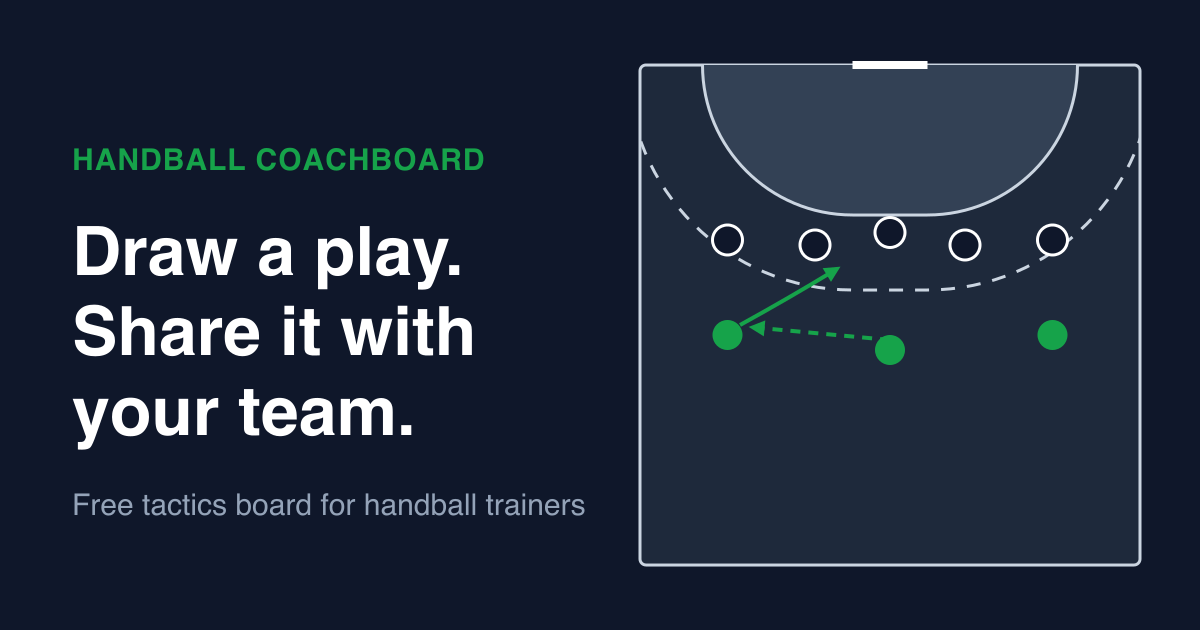
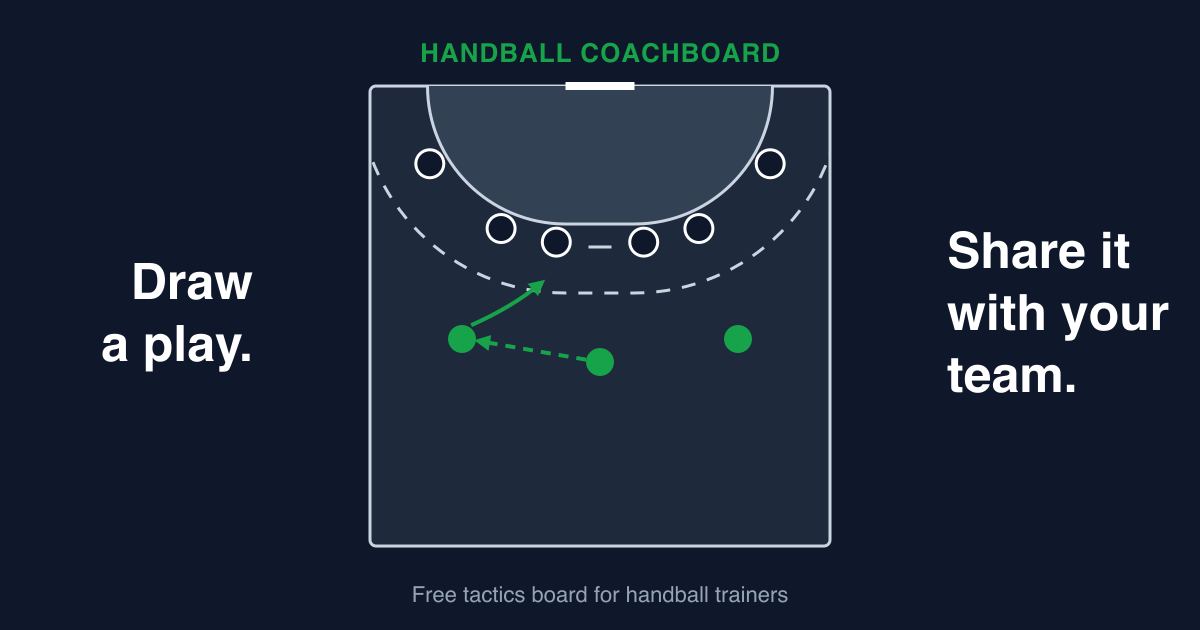
Re-render the English share image in the new layout
public/og-default.png now has the layout of the Dutch one: six
defenders in a 6-0, the headline in the side bands and a middle
630x630 square that stands on its own. The text stays the same.

Changed region(s): [[0.0617, 0.0603, 0.9867, 0.9048], [0.3392, 0.9349, 0.6783, 0.9651], [0.4317, 0.4524, 0.4933, 0.4825]]

diff --git a/docs/metingen.md b/docs/metingen.md
@@ -1521,6 +1521,10 @@ Stap 5, in PR #24 (branch `fase-10-afronding`, na de merge van #23). Het Engels 
 
   - `/nl/` en `/nl/tactics/` zijn kleiner doordat de CSS van de "Soon"-kaart uit `CategoryCards` weg is; hun tekst is gelijk. De andere Nederlandse pagina's zijn byte voor byte even groot.
   - De 404 toont de Engelse footertekst, die korter is.
+- **De Engelse deelafbeelding** (`public/og-default.png`) heeft nu de indeling van de Nederlandse: zes verdedigers in een 6-0, en drie opbouwers met een pass en een loopactie. Tot nu toe had hij de oude indeling met vijf verdedigers (zie "Een Nederlandse deelafbeelding" hierboven).
+  - Opnieuw gemaakt met `node scripts/og-default.mjs en`, lokaal met systeemfonts. De tekst is gelijk gebleven: "Draw a play." en "Share it with your team.", met "Free tactics board for handball trainers".
+  - Het middelste vierkant van 630×630 is op zichzelf compleet: merknaam, veld en ondertitel. De kop staat in de zijstroken.
+  - 46,7 KB (was 50,5 KB). Het budget is 60 KB.
 
 ### Preview-URL
 
